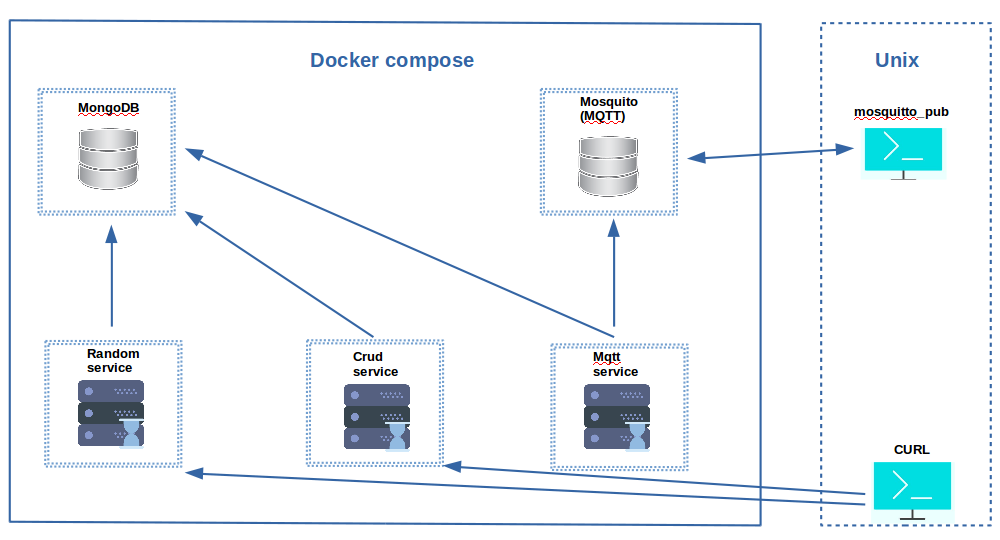
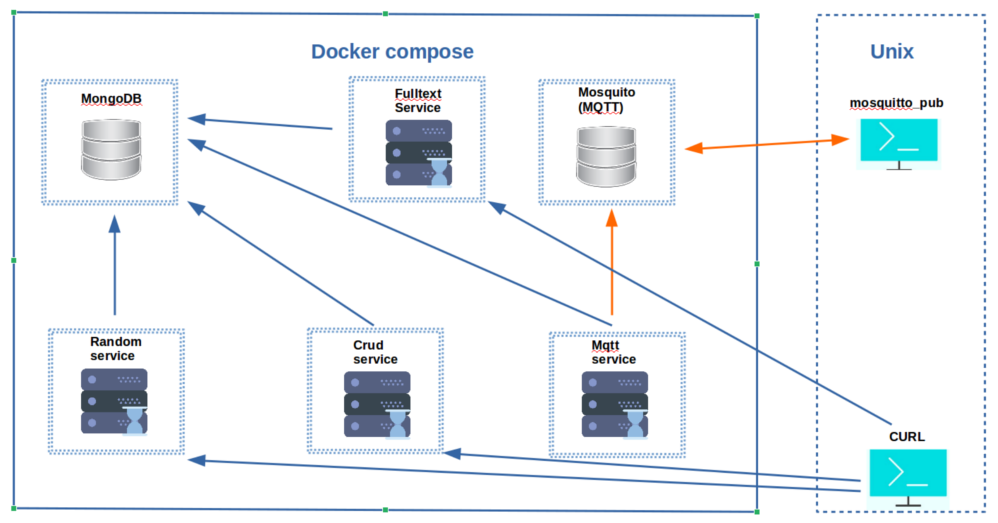
updated diagrams, fix spelling in documentation

diff --git a/README.md b/README.md
@@ -2,16 +2,16 @@
 
 **A working demo usage of docker, docker-compose, mongodb, python3, docker-compose, mosquitto:**
 
-First usecase an api that generates random numbers and lists them
+**First** usecase an api that generates random numbers and lists them
 
-Second one deals with crud operations CRUD (create, read, update, delete) 
+**Second** one deals with crud operations CRUD (create, read, update, delete) 
 application over a user collection
 
-The third one will use a MQTT server (Mosquitto) to allow to publish sensor updates over MQTT
+The **third** one will use a MQTT server (Mosquitto) to allow to publish sensor updates over MQTT
 The updates will be saved in mongodb (/demo/sensors). It will also compute a running average 
 for each sensor and publish it to a separate topic
 
-Fourth usecase is a fulltextsearch engine backed by fulltext mongoDb index
+**Fourth** usecase is a fulltext search engine backed by fulltext mongoDb index
 
 The applications will run in parallel using docker-compose
 
@@ -144,5 +144,5 @@ curl -X PUT -d expression="ana has many more apples"  http://localhost:82/fullte
 
 * To get all indexed expressions containing word "who"
 ````
-curl -i "http://localhost:882/search/who"
+curl -i "http://localhost:82/search/who"
 ````
